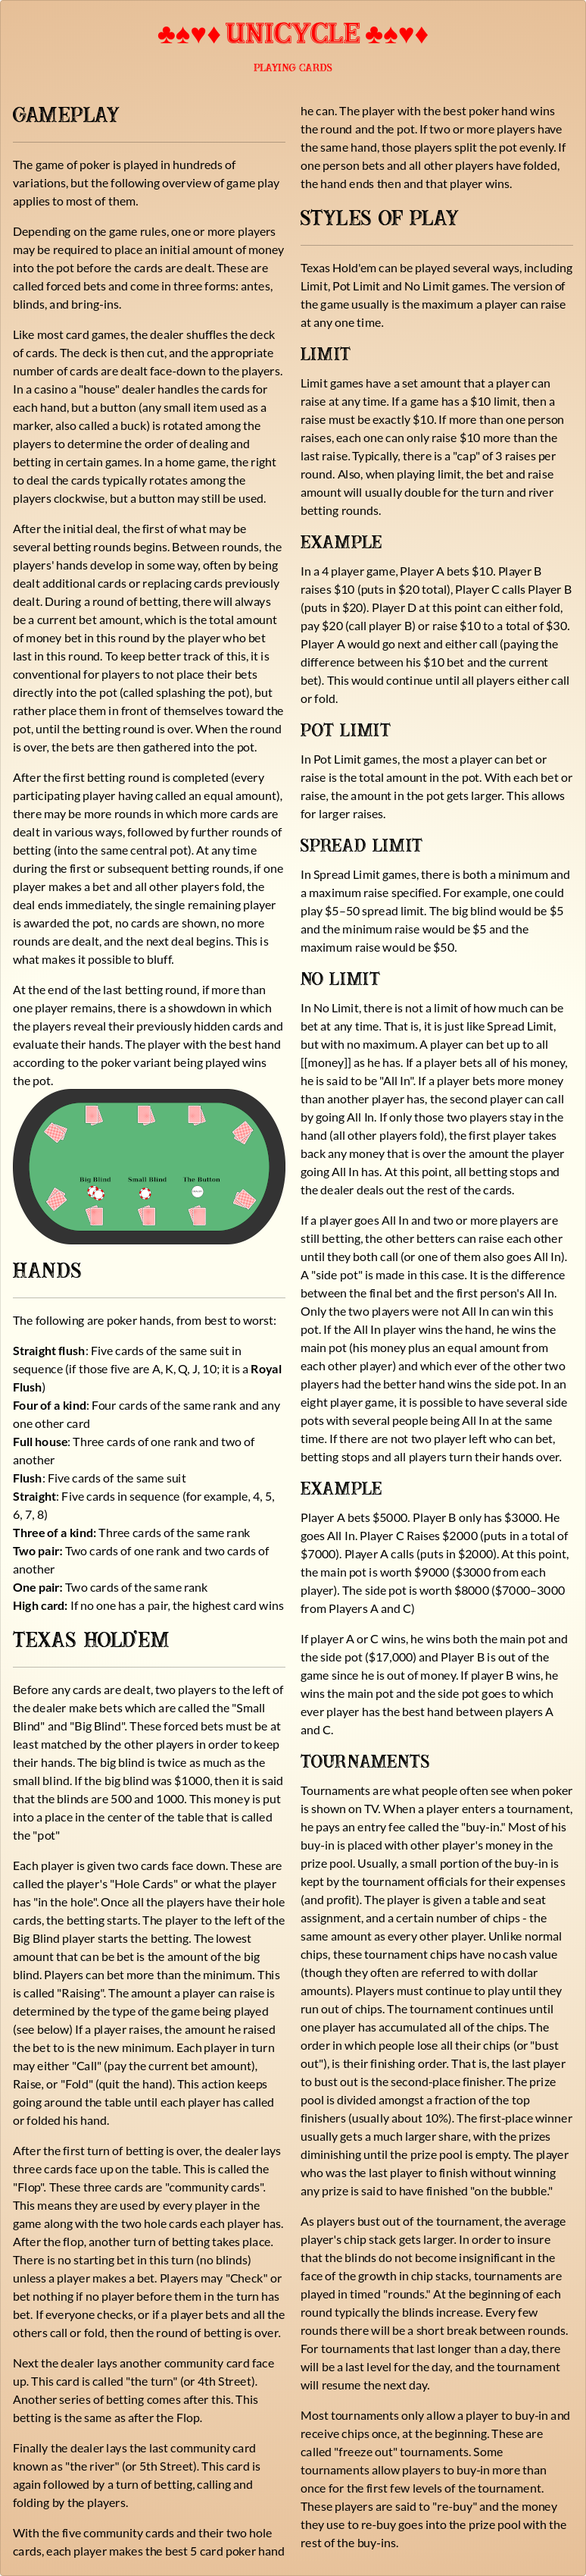
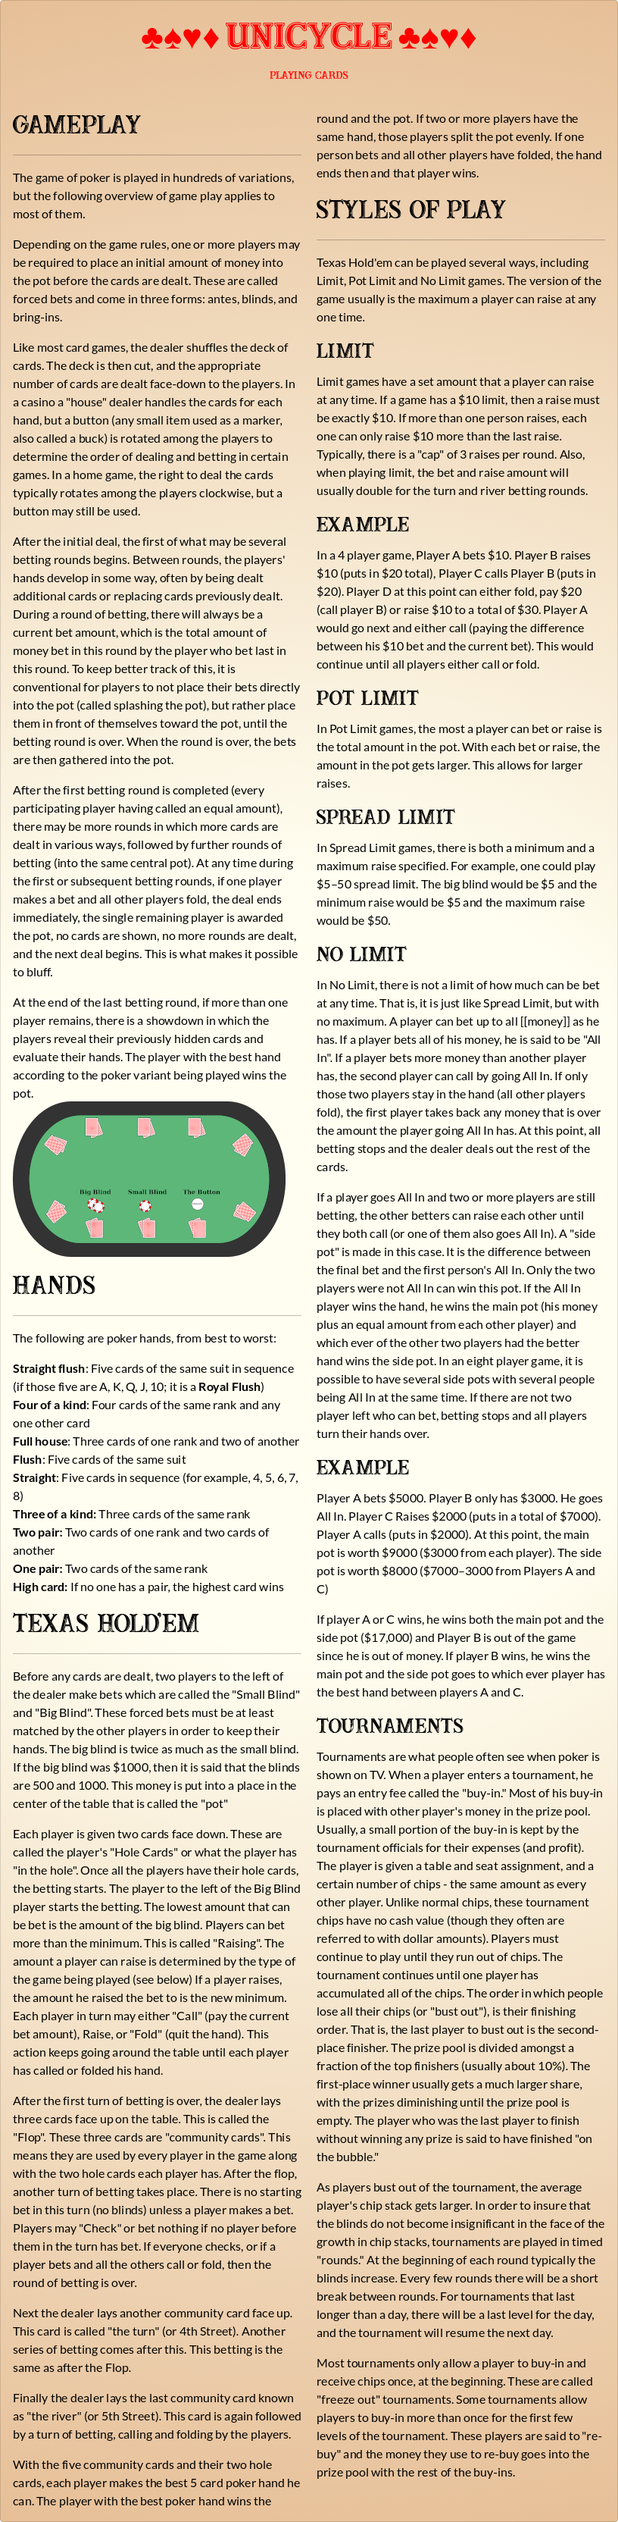
Adding readmes

Changed region(s): [[0.0, 0.0, 0.9612, 1.0]]

diff --git a/styles/custom.css b/styles/custom.css
@@ -1,54 +1,3 @@
-@media print {
-    * {
-      -webkit-print-color-adjust: exact;
-    }
-
-    .no-print {
-      display: none;
-    }
-
-    .no-break {
-      page-break-inside: avoid;
-    }
-
-    .breaker {
-      page-break-after: always;
-    }
-  }
-
-  .vector_line {
-    position: relative;
-    left: 0px;
-    top: 0px;
-    height: 50%;
-    Width: 50%;
-    border-right: 1px solid blue;
-  }
-
-  .everything-bw {
-    background: transparent !important;
-    color: #000 !important;
-    box-shadow: none !important;
-    text-shadow: none !important;
-  }
-
-  .magnetic_faceup_highlight {
-    background-color: red !important;
-    border-color: black !important;
-    width: 100%;
-    height: 100%;
-  }
-
-  .magnetic_facedown_highlight {
-    background-color: blue;
-  }
-
-  .magnetic_ignore {
-    background-color: black !important;
-    color: black !important;
-    border-color: black !important;
-    fill: black !important;
-  }
 
 .medium-size {
   font-size:48px;

diff --git a/styles/decko.css b/styles/decko.css
@@ -1,0 +1,51 @@
+@media print {
+    * {
+      -webkit-print-color-adjust: exact;
+    }
+
+    .no-print {
+      display: none;
+    }
+
+    .no-break {
+      page-break-inside: avoid;
+    }
+
+    .breaker {
+      page-break-after: always;
+    }
+  }
+
+  .vector_line {
+    position: relative;
+    left: 0px;
+    top: 0px;
+    height: 50%;
+    Width: 50%;
+    border-right: 1px solid blue;
+  }
+
+  .everything-bw {
+    background: transparent !important;
+    color: #000 !important;
+    box-shadow: none !important;
+    text-shadow: none !important;
+  }
+
+  .magnetic_faceup_highlight {
+    background-color: red !important;
+    border-color: black !important;
+    width: 100%;
+    height: 100%;
+  }
+
+  .magnetic_facedown_highlight {
+    background-color: blue;
+  }
+
+  .magnetic_ignore {
+    background-color: black !important;
+    color: black !important;
+    border-color: black !important;
+    fill: black !important;
+  }

diff --git a/templates/instructions.html b/templates/instructions.html
@@ -3,7 +3,7 @@
 <link rel="stylesheet" href="styles/custom.css">
 <link rel="stylesheet" href="lineawesome/css/line-awesome.css">
 {{/block}}  
-<div card-type="card-back" class="exportable card mb-3 preview parchment">
+<div card-type="card-back" class="exportable card mb-3 preview parchment" style="width:8.5in">
   <br/>
   <h1 class="text-center emphatic wax">♣♠♥♦ Unicycle ♣♠♥♦
   </h1>

diff --git a/templates/boxart.html b/templates/boxart.html
@@ -1,5 +1,6 @@
 {{#block head}}
-<link rel="stylesheet" href="styles/project.css">
+<link rel="stylesheet" href="styles/bootstrap.css">
+<link rel="stylesheet" href="styles/decko.css">
 <link rel="stylesheet" href="styles/custom.css">
 <link rel="stylesheet" href="fontawesome/css/all.css">
 {{/block}}   

diff --git a/styles/README.md b/styles/README.md
@@ -1,0 +1,4 @@
+# Styles
+**bootstrap.css:** Bootstrap is a framework which provides a way to build responsive web content. 
+**decko.css:** This file fontains css for decko to use in printing, previewing and export. Only mess with these if you know what you're doing.
+**custom.css:** This is where you should put the specifics of your project.
